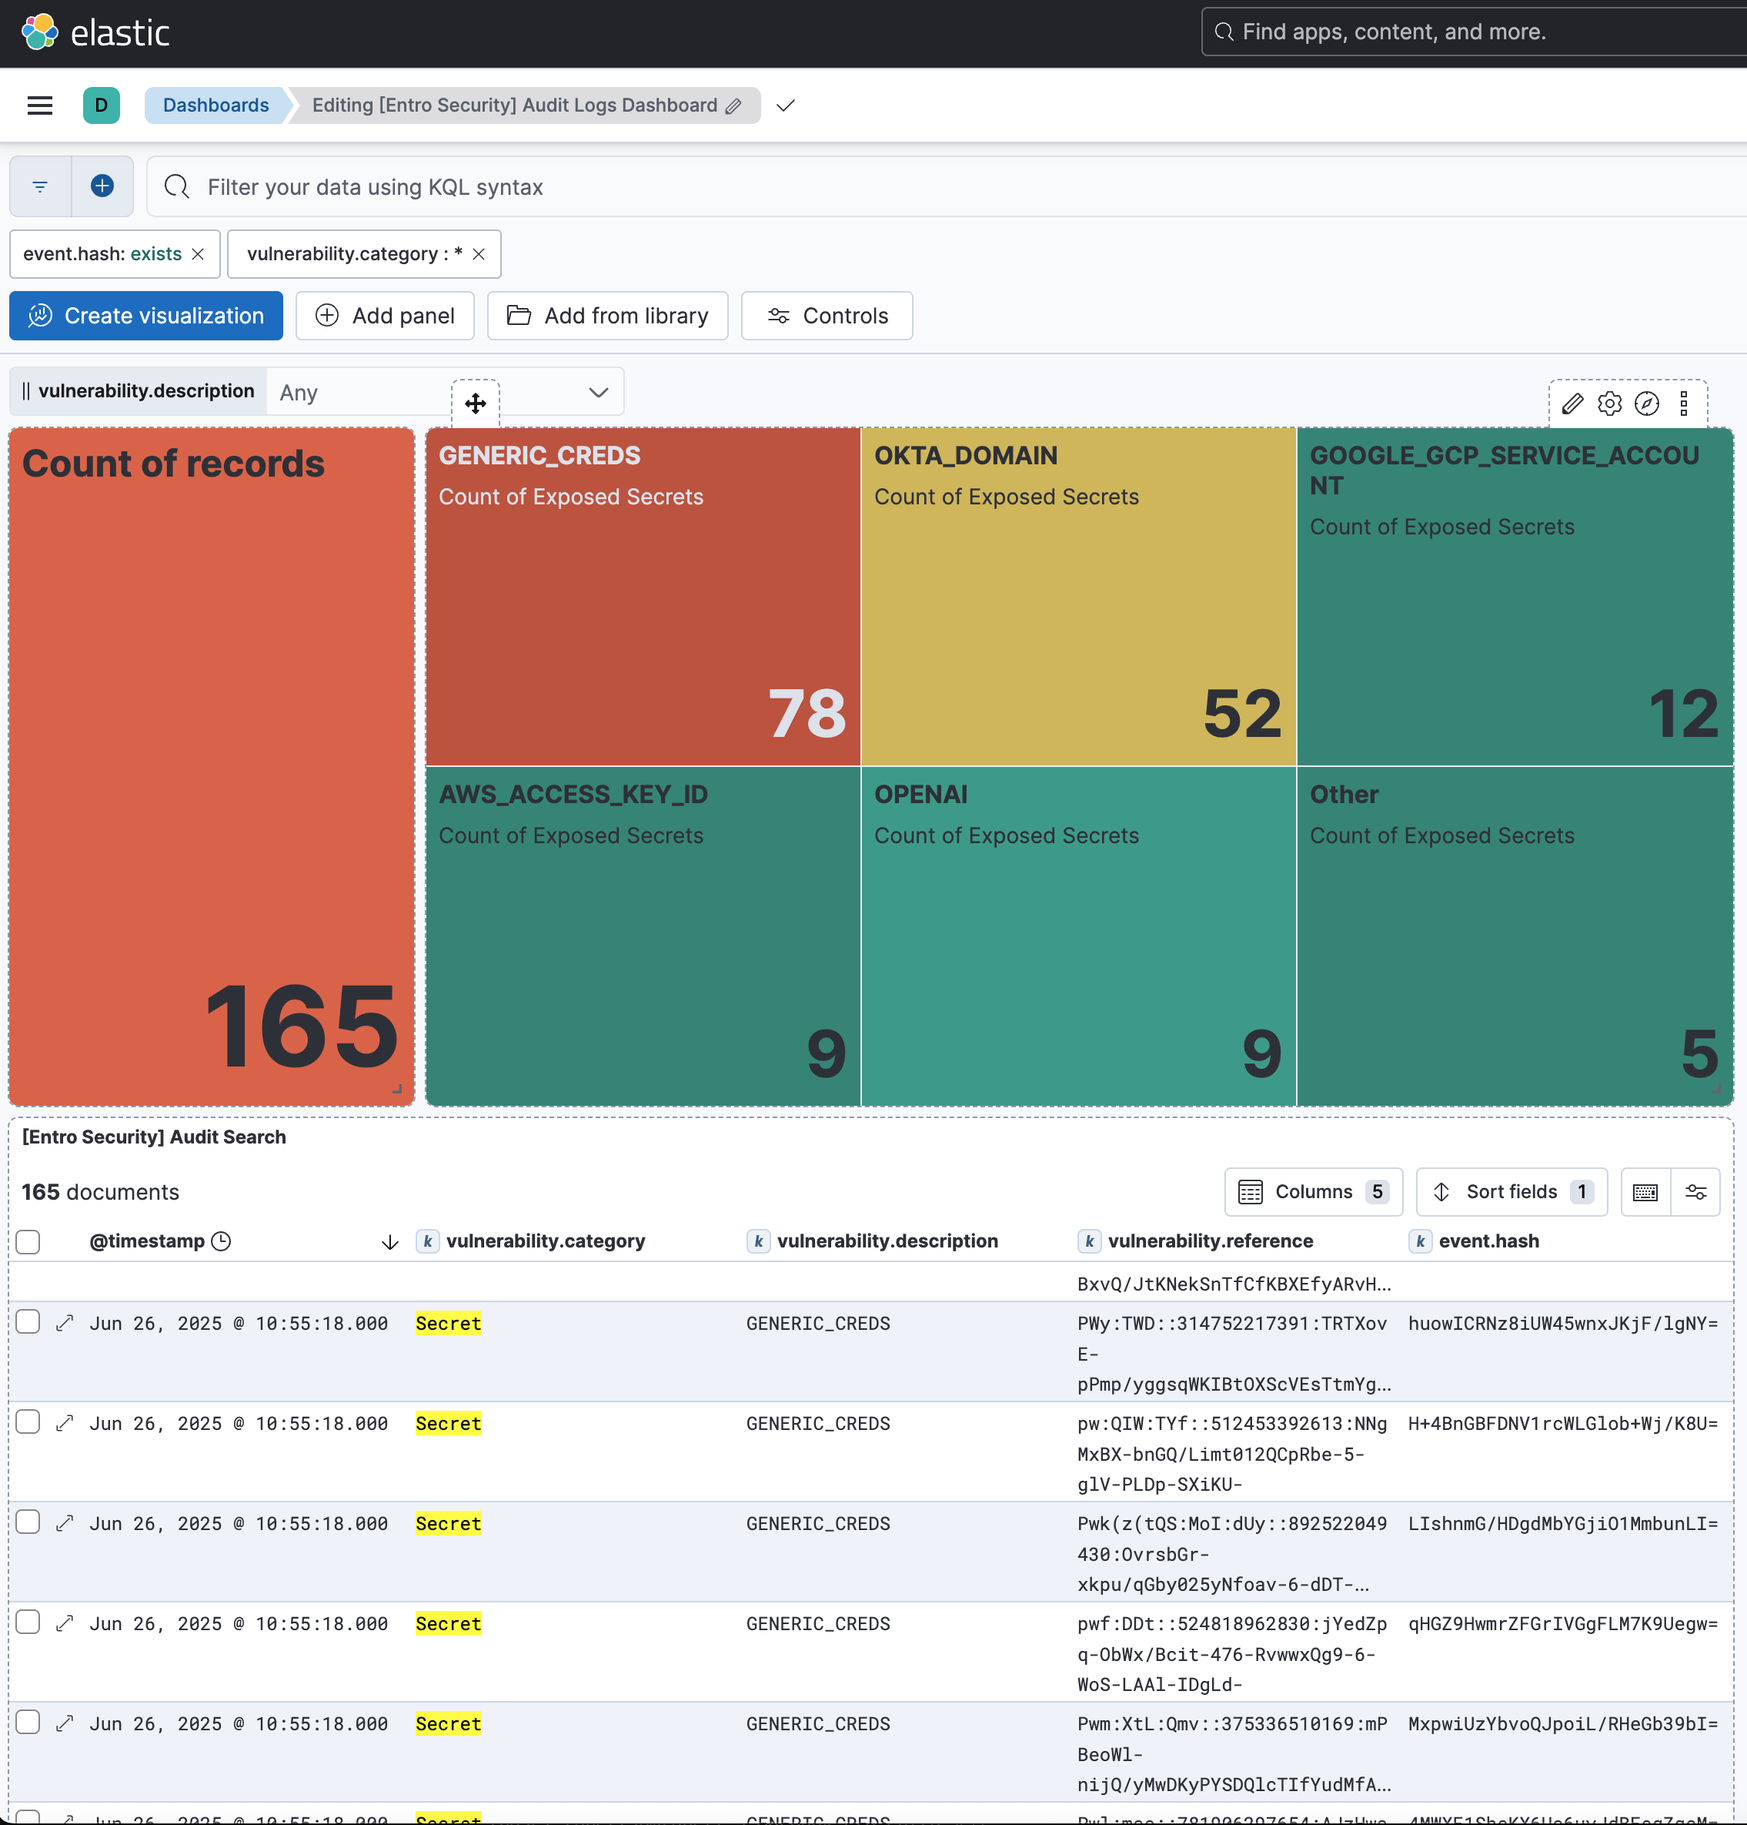
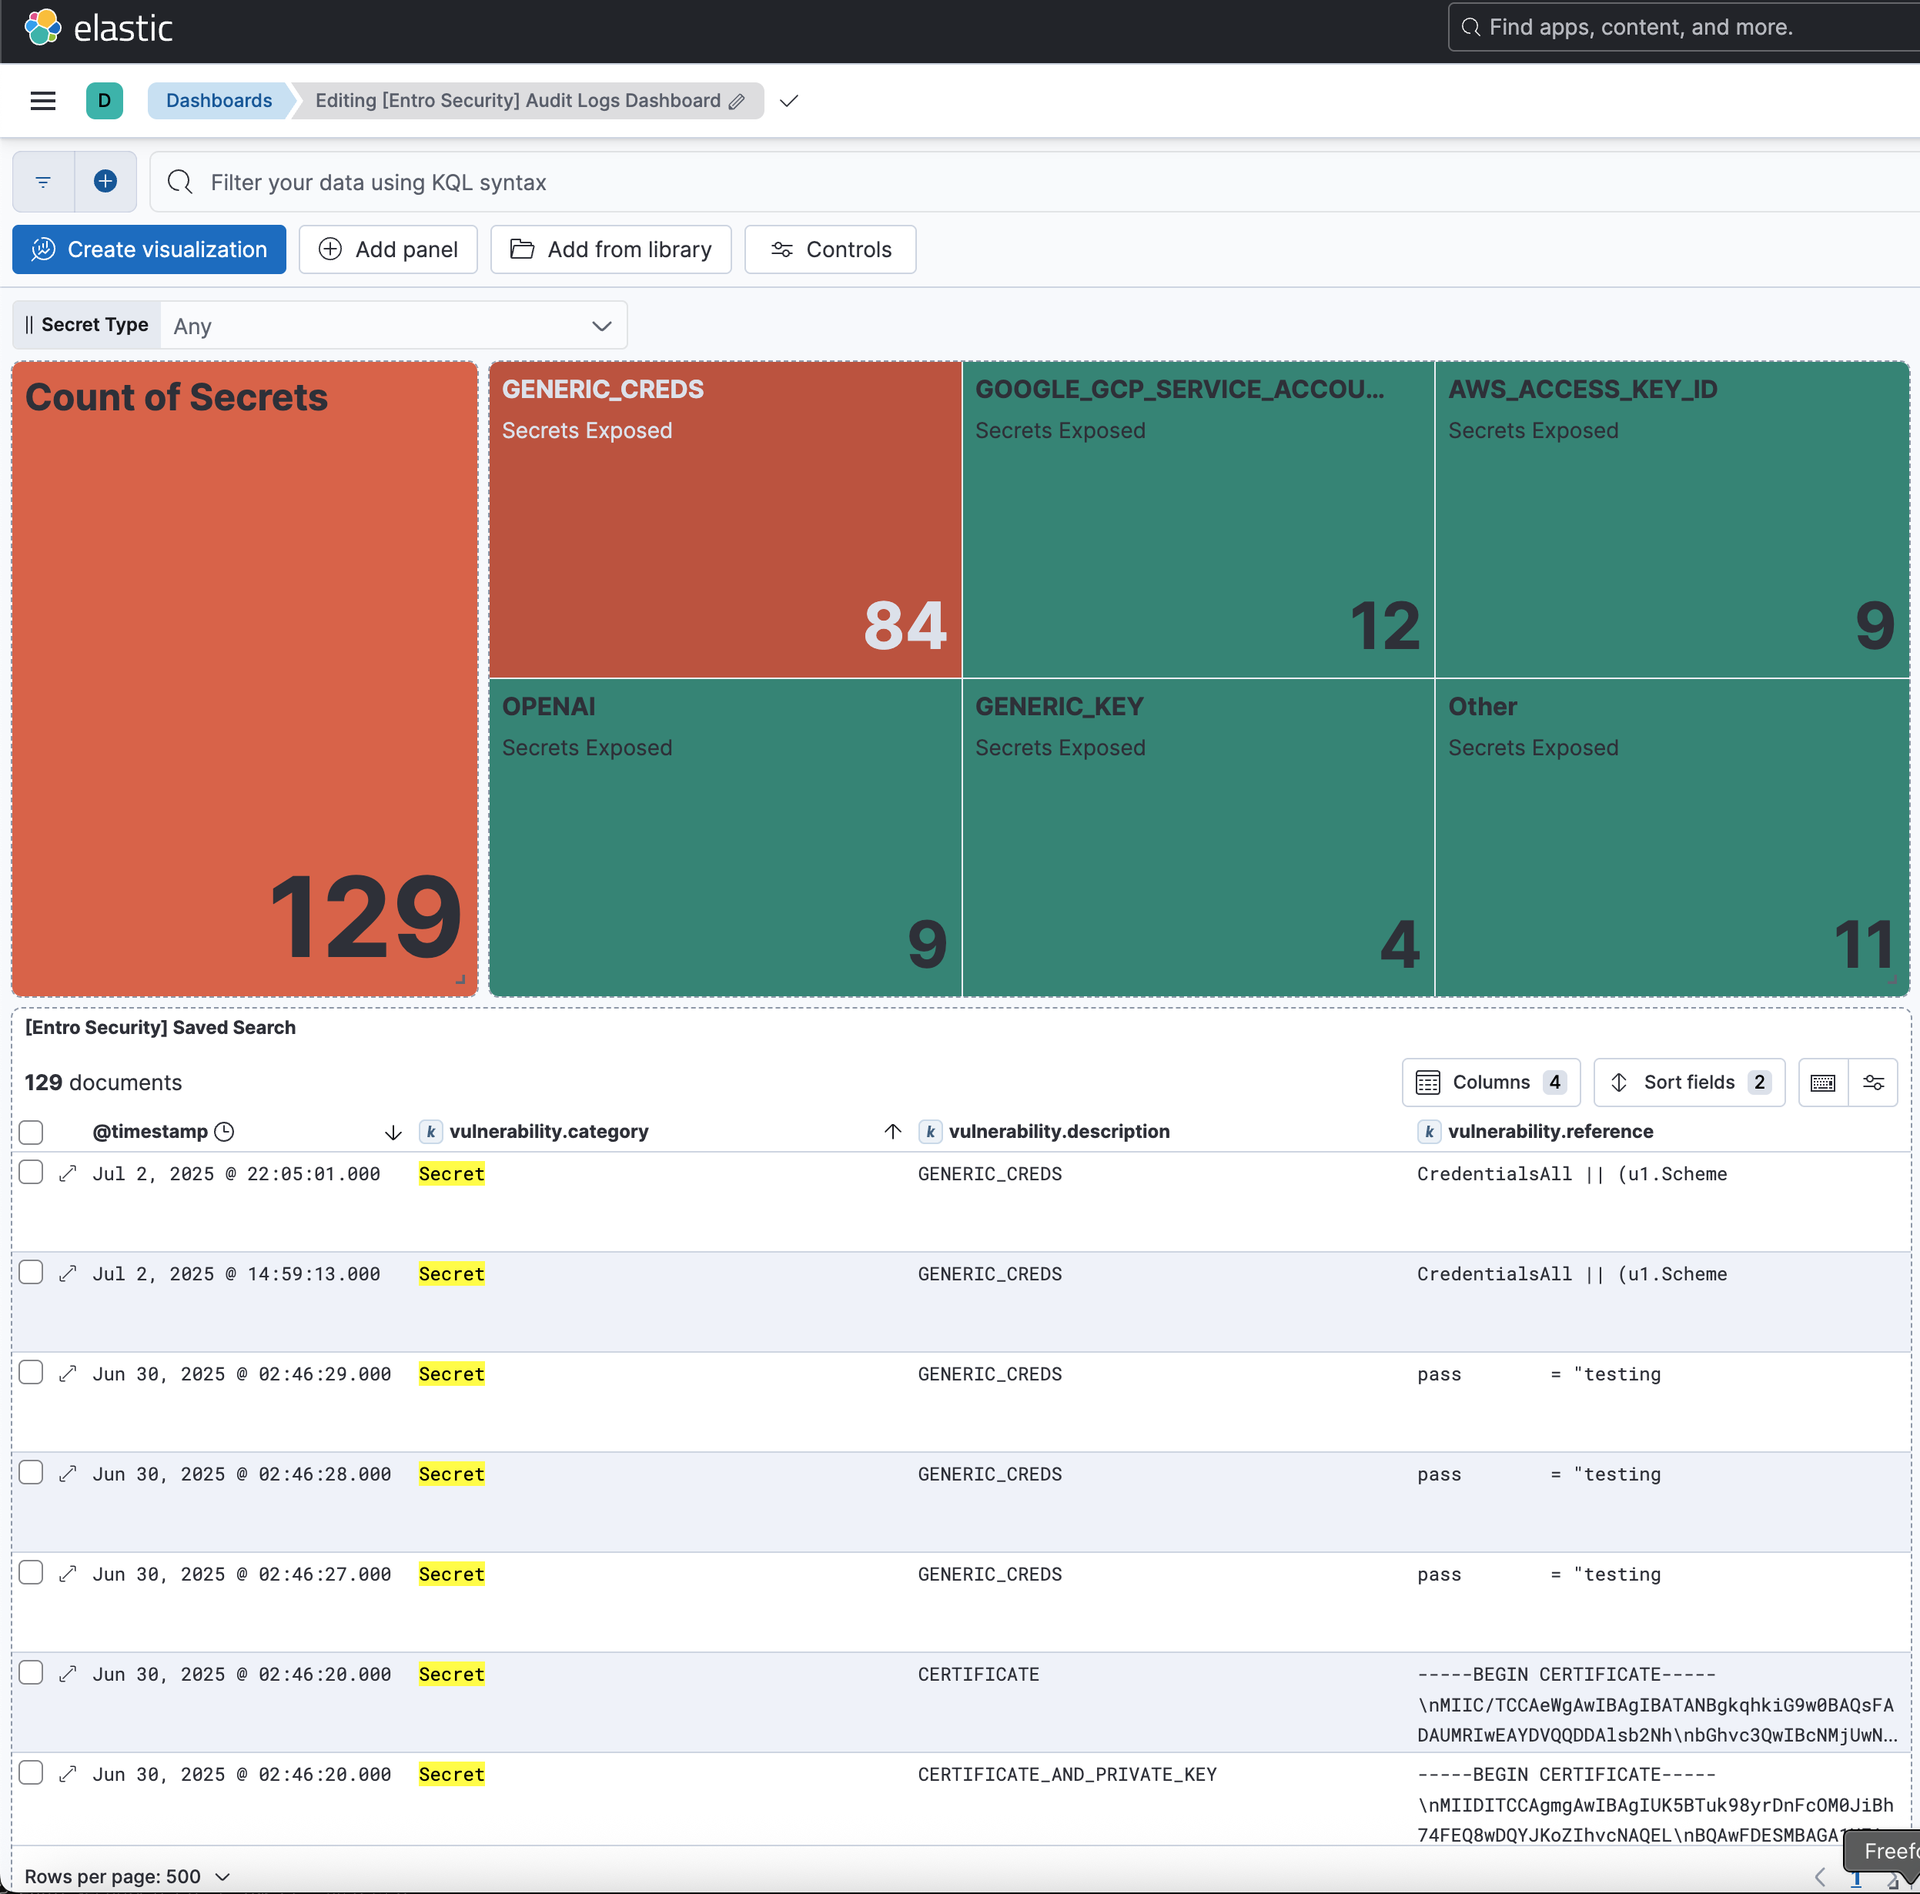
FIX: Change fingerprint to _id, fixed tests from looping error, updated dashboards

diff --git a/packages/entro/docs/README.md b/packages/entro/docs/README.md
@@ -51,22 +51,22 @@ An example event for `audit` looks as following:
 {
     "@timestamp": "2025-05-27T20:12:44.000Z",
     "agent": {
-        "ephemeral_id": "2edd925c-7d35-4c62-9ee3-de3e924a9a16",
-        "id": "430bf95a-cf71-4fb6-be61-9eb7470628f4",
-        "name": "elastic-agent-46061",
+        "ephemeral_id": "370ff781-3b0f-4c02-81e8-c871a0388c8f",
+        "id": "2c6d4aa3-8f06-458e-b945-1c2ad0195af2",
+        "name": "elastic-agent-11323",
         "type": "filebeat",
         "version": "8.17.4"
     },
     "data_stream": {
         "dataset": "entro.audit",
-        "namespace": "41903",
+        "namespace": "76472",
         "type": "logs"
     },
     "ecs": {
         "version": "8.11.0"
     },
     "elastic_agent": {
-        "id": "430bf95a-cf71-4fb6-be61-9eb7470628f4",
+        "id": "2c6d4aa3-8f06-458e-b945-1c2ad0195af2",
         "snapshot": false,
         "version": "8.17.4"
     },
@@ -79,7 +79,7 @@ An example event for `audit` looks as following:
         "dataset": "entro.audit",
         "hash": "P+ftR9PJeiuytETRTqMeXXqfSH4=",
         "id": "105d6a3d-6468-4fcc-994e-f525011c53cf",
-        "ingested": "2025-07-03T20:46:12Z",
+        "ingested": "2025-07-07T12:14:58Z",
         "kind": "event",
         "type": [
             "info"
@@ -88,16 +88,16 @@ An example event for `audit` looks as following:
     "host": {
         "architecture": "aarch64",
         "containerized": false,
-        "hostname": "elastic-agent-46061",
+        "hostname": "elastic-agent-11323",
         "ip": [
-            "172.19.0.2",
-            "172.18.0.4"
+            "172.20.0.2",
+            "172.18.0.5"
         ],
         "mac": [
-            "CE-FD-5D-F6-E6-A5",
-            "D6-9D-3C-3F-A7-98"
+            "BA-5F-15-72-D0-DD",
+            "BA-64-BD-6A-56-BD"
         ],
-        "name": "elastic-agent-46061",
+        "name": "elastic-agent-11323",
         "os": {
             "family": "",
             "kernel": "6.10.14-linuxkit",
@@ -117,6 +117,10 @@ An example event for `audit` looks as following:
             }
         }
     },
+    "tags": [
+        "preserve_original_event",
+        "test-env"
+    ],
     "vulnerability": {
         "category": [
             "Secret"
